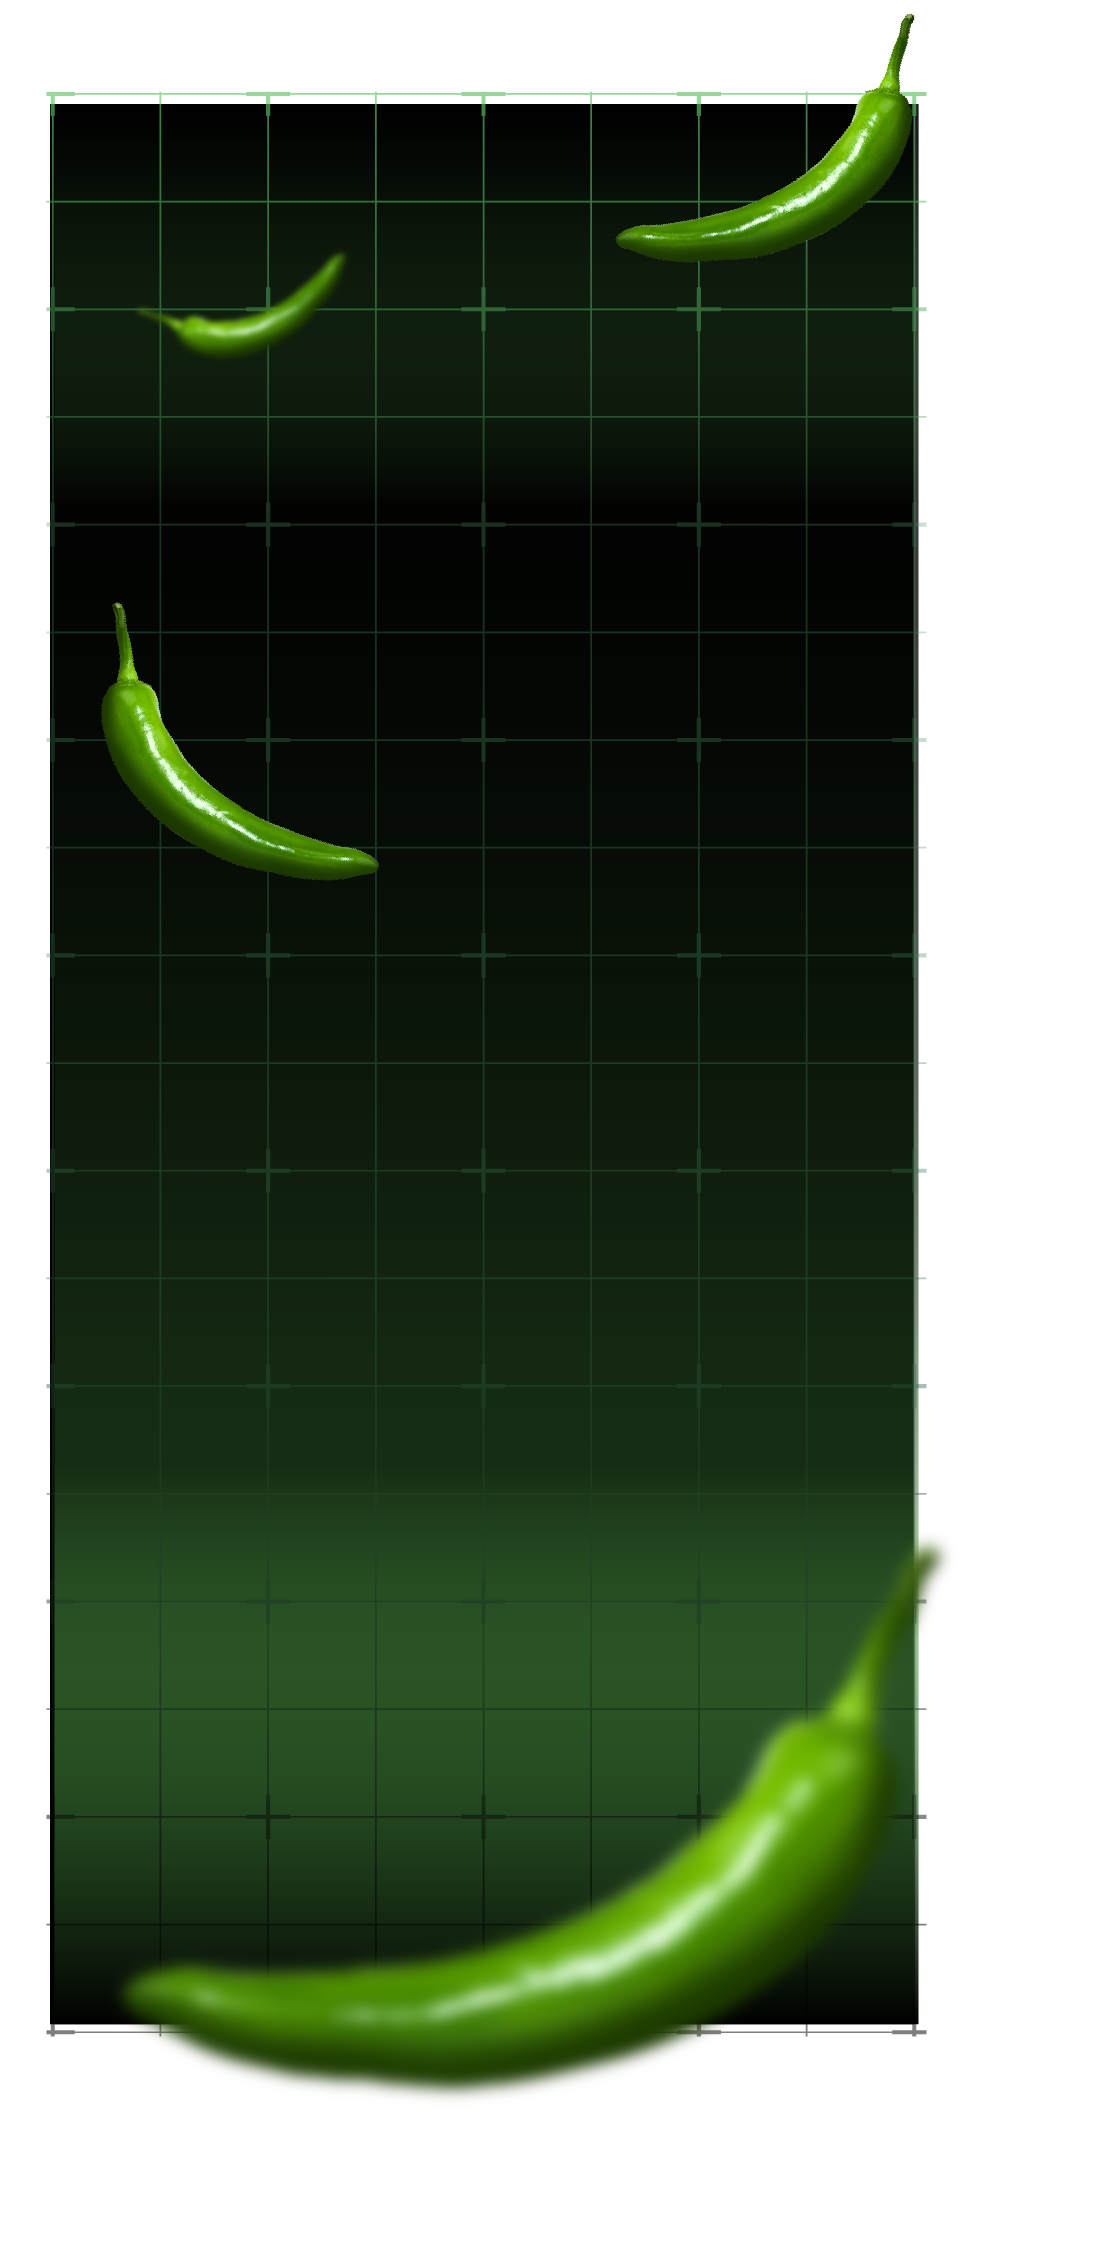
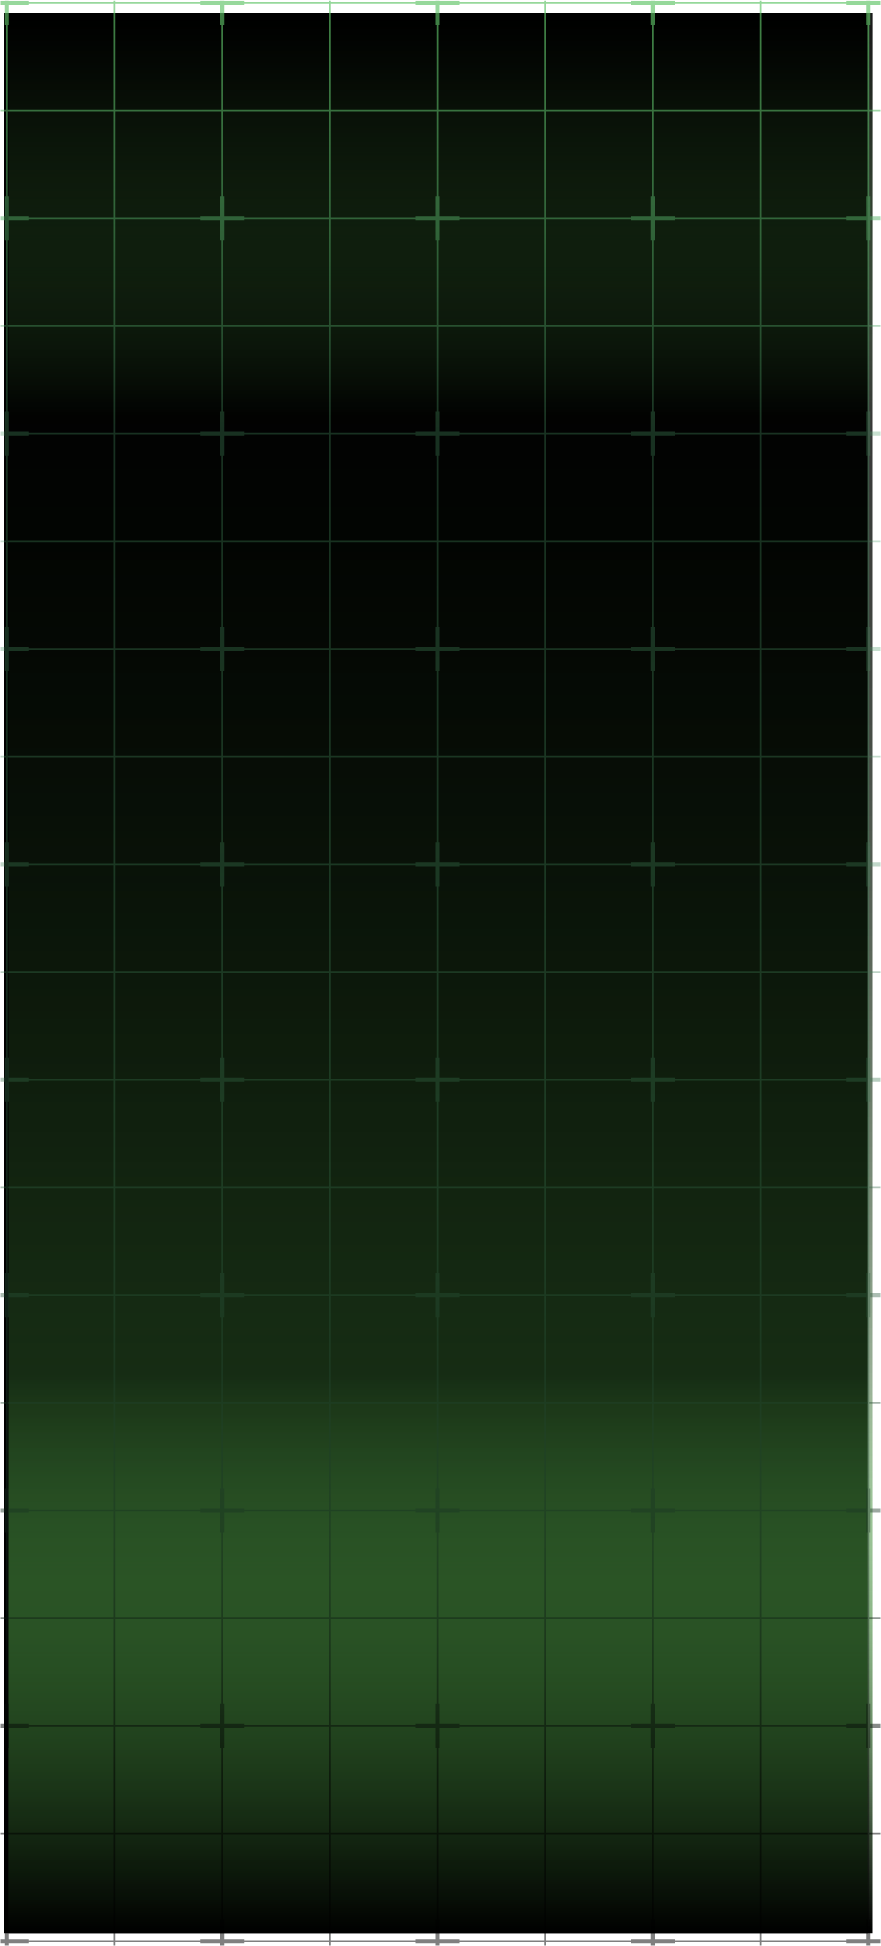
Update home screen layout assets

diff --git a/css/hud.css b/css/hud.css
@@ -193,26 +193,39 @@
 #introScreen {
   width: 100vw;
   height: 100dvh;
+  padding: 0;
   overflow: hidden;
   background-color: #041006;
   isolation: isolate;
 }
 
-#introScreen::before {
-  content: "";
+.home-bg-image,
+.home-hover-image {
   position: fixed;
   inset: 0;
-  z-index: 0;
+  width: 100vw;
+  height: 100dvh;
+  display: block;
+  object-fit: fill;
   pointer-events: none;
-  background-image: url("../assets/ui/bg_home.png");
-  background-position: center center;
-  background-size: 100% 100%;
-  background-repeat: no-repeat;
+  user-select: none;
+}
+
+.home-bg-image {
+  z-index: 0;
+}
+
+.home-hover-image {
+  z-index: 1;
+  inset: 50% auto auto 50%;
+  width: 112vw;
+  height: 112dvh;
+  transform: translate(-50%, -50%);
 }
 
 #introScreen .intro-card {
   position: relative;
-  z-index: 1;
+  z-index: 2;
 }
 
 .intro-card,
@@ -331,6 +344,156 @@
 .secondary-btn:disabled {
   opacity: 0.6;
   cursor: not-allowed;
+}
+
+/* HOME SCREEN */
+.home-card {
+  width: min(82vw, 330px);
+  max-width: 330px;
+  max-height: calc(100dvh - 28px);
+  overflow: visible;
+  padding: 0;
+  border: none;
+  border-radius: 0;
+  color: white;
+  background: transparent;
+  box-shadow: none;
+  backdrop-filter: none;
+  -webkit-backdrop-filter: none;
+  display: flex;
+  flex-direction: column;
+  align-items: center;
+}
+
+.home-brand-placeholder {
+  width: clamp(58px, 18vw, 74px);
+  height: clamp(28px, 8vw, 38px);
+  margin-bottom: clamp(8px, 2dvh, 12px);
+  display: flex;
+  align-items: center;
+  justify-content: center;
+  border: 3px solid #f32926;
+  border-radius: 8px 8px 12px 12px;
+  color: #0479d6;
+  font-size: clamp(10px, 3vw, 13px);
+  font-weight: 900;
+  font-style: italic;
+  background: #f8fff2;
+  box-shadow: 0 4px 0 #0a8f38, 0 10px 18px rgba(0, 0, 0, 0.34);
+  transform: rotate(-2deg);
+}
+
+.home-title-placeholder {
+  display: flex;
+  flex-direction: column;
+  align-items: center;
+  margin-bottom: -4px;
+  line-height: 0.86;
+  font-weight: 900;
+  text-transform: uppercase;
+  letter-spacing: 0;
+  transform: skew(-5deg);
+  text-shadow:
+    0 4px 0 #0d5428,
+    0 8px 0 #073717,
+    0 16px 18px rgba(0, 0, 0, 0.58);
+}
+
+.home-title-placeholder span {
+  font-size: clamp(44px, 13vw, 58px);
+  color: #e9ff4d;
+}
+
+.home-title-placeholder strong {
+  font-size: clamp(48px, 14vw, 64px);
+  color: #ffffff;
+}
+
+.home-ribbon-placeholder {
+  position: relative;
+  z-index: 2;
+  min-width: clamp(120px, 38vw, 150px);
+  margin-bottom: -18px;
+  padding: 7px 18px 8px;
+  border: 4px solid #9eff62;
+  border-radius: 8px;
+  color: white;
+  font-size: clamp(12px, 3.4vw, 15px);
+  font-weight: 900;
+  font-style: italic;
+  text-align: center;
+  background: #1c4f2c;
+  box-shadow: 0 6px 0 #08220f;
+}
+
+.home-panel {
+  width: 100%;
+  margin: 0;
+  padding: clamp(42px, 8dvh, 58px) clamp(28px, 8vw, 38px) clamp(22px, 4dvh, 30px);
+  border: 5px solid #aeff68;
+  border-radius: 8px;
+  text-align: center;
+  background:
+    linear-gradient(180deg, rgba(120, 241, 118, 0.9), rgba(36, 118, 70, 0.88) 62%, rgba(6, 24, 13, 0.94));
+  box-shadow:
+    inset 0 0 0 1px rgba(255, 255, 255, 0.24),
+    inset 18px 0 0 rgba(146, 255, 133, 0.24),
+    inset -18px 0 0 rgba(146, 255, 133, 0.2),
+    0 18px 26px rgba(0, 0, 0, 0.42);
+  clip-path: polygon(12% 0, 88% 0, 100% 12%, 100% 88%, 88% 100%, 12% 100%, 0 88%, 0 12%);
+}
+
+.home-panel .intro-desc {
+  margin: 0 auto 16px;
+  padding-bottom: 16px;
+  border-bottom: 1px solid rgba(220, 255, 180, 0.6);
+  color: #ffffff;
+  font-size: clamp(12px, 3.4vw, 14px);
+  line-height: 1.18;
+  font-weight: 900;
+}
+
+.home-steps {
+  margin: 0;
+  padding: 0;
+  list-style: none;
+  counter-reset: home-step;
+  text-align: left;
+}
+
+.home-steps li {
+  counter-increment: home-step;
+  position: relative;
+  min-height: 32px;
+  margin-bottom: 11px;
+  padding-left: 28px;
+  color: #ffffff;
+  font-size: clamp(10px, 3vw, 12px);
+  line-height: 1.14;
+  font-weight: 900;
+}
+
+.home-steps li::before {
+  content: counter(home-step) ".";
+  position: absolute;
+  left: 0;
+  top: 0;
+  width: 20px;
+  text-align: right;
+}
+
+.home-start-btn {
+  min-height: clamp(42px, 7dvh, 52px);
+  margin-top: clamp(8px, 2dvh, 14px);
+  border-radius: 6px;
+  color: #07521f;
+  font-size: clamp(20px, 6vw, 27px);
+  font-style: italic;
+  background: linear-gradient(180deg, #c4ff79, #43df62);
+  box-shadow:
+    inset 0 -5px 0 rgba(10, 94, 31, 0.22),
+    0 6px 0 #135e2c;
+  clip-path: polygon(8% 0, 92% 0, 100% 50%, 92% 100%, 8% 100%, 0 50%);
 }
 
 /* RESULT */
@@ -643,7 +806,7 @@
 
 /* SMALL PHONE */
 @media (max-height: 700px) {
-  .intro-card,
+  .intro-card:not(.home-card),
   .result-card {
     padding: 22px 18px;
   }

diff --git a/index.html b/index.html
@@ -61,41 +61,51 @@
 
   <!-- INTRO SCREEN -->
   <section id="introScreen" class="screen active">
-    <div class="intro-card">
+    <img
+      src="assets/ui/bg_home.png"
+      alt=""
+      class="home-bg-image"
+      aria-hidden="true"
+    />
+    <img
+      src="assets/ui/hover_cabe.png"
+      alt=""
+      class="home-hover-image"
+      aria-hidden="true"
+    />
 
-      <div class="logo-badge">
-        <img
-          src="assets/images/chili-green.png"
-          alt="Green Chili"
-          class="logo-image"
-        />
+    <div class="intro-card home-card">
+
+      <div class="home-brand-placeholder">
+        Indomie
       </div>
 
-      <h1>Green Chili Hunt</h1>
+      <div class="home-title-placeholder" aria-label="Cari Cabe Ijo">
+        <span>CARI</span>
+        <strong>CABE IJO</strong>
+      </div>
 
-      <p class="intro-desc">
-        Cabe hijau tersembunyi di antara object lain di sekitarmu.
-        Gerakkan HP untuk mencari, arahkan bidikan ke cabe hijau,
-        lalu ucapkan <b>"ijo"</b>.
-      </p>
+      <div class="home-ribbon-placeholder">
+        THE GAME
+      </div>
 
-      <div class="how-to-box">
-        <h3>Cara Bermain</h3>
+      <div class="how-to-box home-panel">
+        <p class="intro-desc">
+          Temukan cabe ijo yang tersembunyi di antara objek di sekitarmu.
+          Gerakkan HP-mu untuk mencari, arahkan
+        </p>
 
-        <ul>
-          <li>Gunakan Chrome di Android yang mendukung ARCore.</li>
-          <li>Izinkan akses AR camera dan mikrofon.</li>
-          <li>Cabe hijau bercampur dengan object pengecoh.</li>
-          <li>Gerakkan HP untuk mencari di ruang AR.</li>
-          <li>Arahkan marker tengah ke cabe hijau.</li>
-          <li>Ucapkan <b>"ijo"</b> untuk menangkap cabe.</li>
-          <li>Kumpulkan 5 cabe hijau secepat mungkin.</li>
+        <ul class="home-steps">
+          <li>Izinkan akses AR kamera dan mikrofon</li>
+          <li>Gerakkan kamera untuk temukan Cabe Ijo</li>
+          <li>Arahkan target dan ucapkan "ijo"</li>
+          <li>Kumpulkan 5 Cabe Ijo secepat mungkin!</li>
         </ul>
-      </div>
 
-      <button id="startBtn" class="primary-btn">
-        Start Game
-      </button>
+        <button id="startBtn" class="primary-btn home-start-btn">
+          MULAI MAIN
+        </button>
+      </div>
 
     </div>
   </section>
